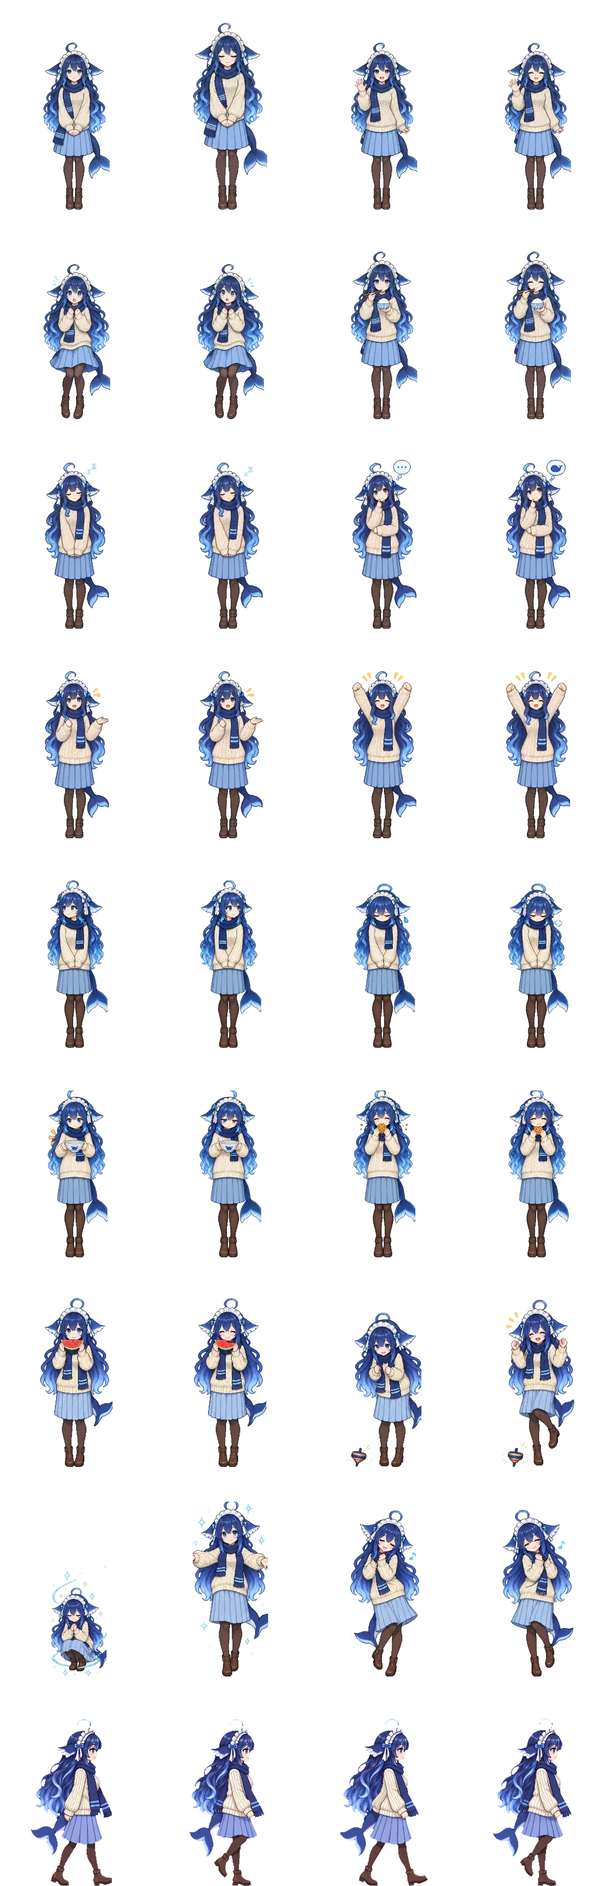
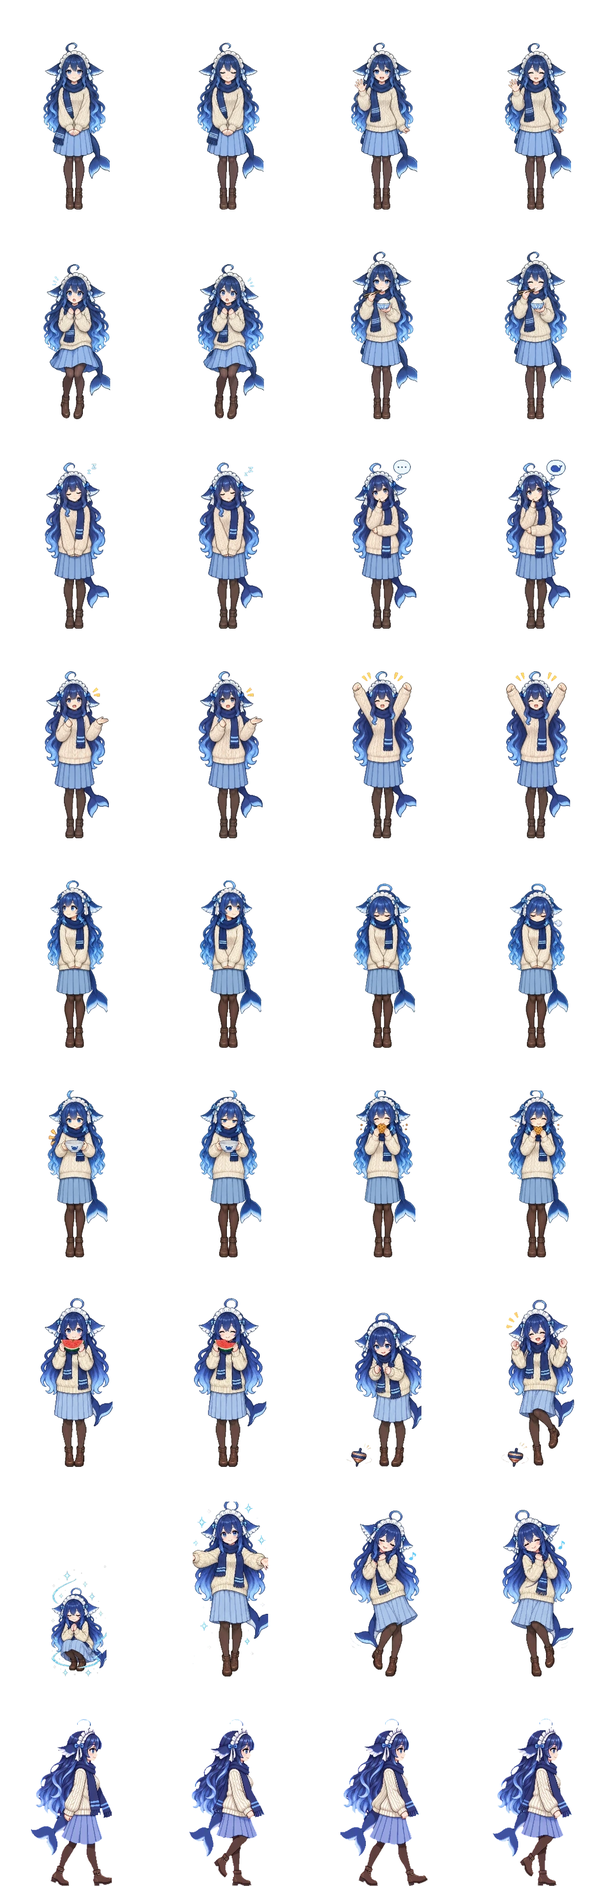
✨ feat(outfits): ten all-ages wardrobe outfits for all five characters
Full 4×9 sheets for 针织围巾套装, 休闲卫衣, 贝雷帽画家装, 偶像演出服 (new, 熟悉),
毛绒睡衣, 猫耳家居服, 浴衣, 长旗袍 (new, 知己), 情侣卫衣 and 花冠长裙 in every
default pixel pack; each character lists all thirteen all-ages outfits. The
adult designs were not drawn. Prompts pin each character's garment colours,
open with a chroma-key line (plain BG gave dark gradients) and keep skirts at
knee length or longer; the first fitted, slit qipao was redrawn as a loose
A-line dress. align_outfit.py rescales off-size cells to daily's height.

e2e: the outfit scenario handles first-stage outfits; wardrobe expects the
new unlock notices.

Changed region(s): [[0.3087, 0.0, 0.4322, 0.1249]]

diff --git a/e2e/run.js b/e2e/run.js
@@ -395,7 +395,7 @@ async function wardrobe() {
       return `${f} · float "${float}" · meta: ${await page.textContent('#meta')}`;
     });
 
-    await step(S, 'crossing 15 moves 陌生 -> 熟悉 and a notice names the unlocked topics (she has no other outfits to unlock)', async () => {
+    await step(S, 'crossing 15 moves 陌生 -> 熟悉 and a notice names the unlocked topics and the three 熟悉 outfits', async () => {
       // Test hook: 14 points (a day's cap is 12, so reaching 15 by hand takes two days); the pat that crosses is real.
       await page.evaluate(() => window.pet.debugSet({ affection: 14, mood: 50, hunger: 30, sleeping: false, dailyCounts: { greet: 1 }, lastAffectionAt: {}, affectionToday: 0 }));
       await hover(page);
@@ -407,20 +407,17 @@ async function wardrobe() {
       const toast = await page.textContent('#unlock-toast');
       assert.match(toast, /关系升级：熟悉（♥15）/);
       assert.match(toast, /解锁话题：「聊聊爱好」、「奇怪的冷知识」、「脑筋急转弯」/);
-      assert.doesNotMatch(toast, /解锁服饰/);
-      assert.equal((await page.textContent('#toast-open')).trim(), '去聊聊新话题');
-      assert.equal(await page.locator('#btn-wardrobe .new-dot').isVisible(), false);
+      assert.match(toast, /解锁服饰：「休闲卫衣」、「贝雷帽画家装」、「偶像演出服」/);
+      assert.equal((await page.textContent('#toast-open')).trim(), '去衣柜看看');
       return `${await shot('04-stage-up-unlock-notice')} · ${toast.replace(/\s+/g, ' ').trim()}`;
     });
 
-    await step(S, 'the notice leads to the topics; the wardrobe holds her signature maid outfit, in pixels, 针织围巾套装 to wear, 运动泳装 locked until 亲近 and 沙滩比基尼 until 知己', async () => {
+    await step(S, 'the notice leads to the wardrobe: her signature maid outfit, in pixels, the 陌生 and 熟悉 outfits to wear, 运动泳装 locked until 亲近 and 沙滩比基尼 until 知己', async () => {
       await page.click('#toast-open');
-      await page.waitForSelector('#panel:not(.hidden) .topic');
-      await closePanel();
-      await openWardrobe();
+      await page.waitForSelector('#panel:not(.hidden) .card[data-outfit="daily"]');
       assert.deepEqual(await page.$$eval('.card', (cs) => cs.map((c) => c.dataset.outfit)), ['daily', 'scarf', 'casual', 'beret', 'idol', 'pajamas', 'cat_ears', 'swimsuit', 'yukata', 'bikini', 'qipao', 'couple_hoodie', 'flower_crown'], 'DeepSeek: her signature outfit and the twelve all-ages outfits');
-      assert.equal(await page.locator('.card.locked').count(), 11, 'all but daily and 针织围巾套装 (陌生)');
-      assert.equal(await cardStatus('scarf'), '点击穿上');
+      assert.equal(await page.locator('.card.locked').count(), 8, 'all but daily, 针织围巾套装 (陌生) and the three 熟悉 outfits');
+      for (const id of ['scarf', 'casual', 'beret', 'idol']) assert.equal(await cardStatus(id), '点击穿上', id);
       assert.match(await cardStatus('swimsuit'), /^🔒 亲近（♥35）解锁/);
       assert.match(await cardStatus('bikini'), /^🔒 知己（♥60）解锁/);
       assert.equal(await cardStatus('daily'), '✓ 穿着中');
@@ -468,7 +465,7 @@ async function wardrobe() {
       const toast = await page.textContent('#unlock-toast');
       assert.match(toast, /关系升级：亲近（♥35）/);
       assert.match(toast, /解锁话题：「求安慰 \/ 打气」、「给彼此起昵称」、「撒娇模式」、「说说昨晚的怪梦」/);
-      assert.match(toast, /解锁服饰：「运动泳装」/);
+      assert.match(toast, /解锁服饰：「毛绒睡衣」、「猫耳家居服」、「运动泳装」/);
       const f = await shot('11-stage-up-close');
       await page.click('#toast-close');
       return `${f} · ${toast.replace(/\s+/g, ' ').trim()}`;
@@ -484,7 +481,7 @@ async function wardrobe() {
       await hover(page);
       const toast = await page.textContent('#unlock-toast');
       assert.match(toast, /关系升级：知己（♥60）/);
-      assert.equal((await page.textContent('#toast-body')).trim(), '解锁话题：「交换小秘密」、「深夜谈心」解锁服饰：「沙滩比基尼」', 'only the all-ages 沙滩比基尼, no adult outfit');
+      assert.equal((await page.textContent('#toast-body')).trim(), '解锁话题：「交换小秘密」、「深夜谈心」解锁服饰：「浴衣」、「沙滩比基尼」、「长旗袍」', 'only all-ages outfits, no adult one');
       return `${await shot('12-stage-up-flirty')} · ${toast.replace(/\s+/g, ' ').trim()}`;
     });
 
@@ -532,7 +529,7 @@ async function wardrobe() {
       const a = await shot('16-after-restart-pet');
       await openWardrobe();
       assert.equal(await cardStatus('daily'), '✓ 穿着中');
-      assert.equal(await page.locator('.card.locked').count(), 0);
+      assert.equal(await page.locator('.card.locked').count(), 2, 'only the two 挚友 outfits stay locked at 知己');
       const b = await shot('17-after-restart-wardrobe');
       await closePanel();
       await clickAct(page, 'topics');
@@ -4434,7 +4431,9 @@ async function outfitScenario() {
       return `walk frames ${daily.walk.frames.join(' ')}; ${daily.idle.shot}, ${daily.walk.shot}, ${daily.lifted.shot}, ${daily.happy.shot}`;
     }, page);
 
-    await step(S, `before ${O.stage}: the wardrobe lists ${O.label} locked with its condition`, async () => {
+    // A first-stage outfit (针织围巾套装, 陌生 ♥0) is never locked: it is offered from the start, without the 新 tag.
+    const firstStage = O.stage === 'stranger';
+    if (!firstStage) await step(S, `before ${O.stage}: the wardrobe lists ${O.label} locked with its condition`, async () => {
       await clickAct(page, 'wardrobe');
       await page.waitForSelector(`#panel:not(.hidden) .card[data-outfit="${OID}"]`);
       const st = await page.textContent(`.card[data-outfit="${OID}"] .st`);
@@ -4447,7 +4446,7 @@ async function outfitScenario() {
       return `${cards.join(' | ')} · ${f}`;
     }, page);
 
-    await step(S, `a real pat crossing into ${O.stage} unlocks ${O.label}: the notice names it`, async () => {
+    if (!firstStage) await step(S, `a real pat crossing into ${O.stage} unlocks ${O.label}: the notice names it`, async () => {
       const { getStage } = require('../src/core/affection');
       const min = getStage(O.stage).min;
       await page.evaluate((a) => window.pet.debugSet({ affection: a, mood: 50, hunger: 30, sleeping: false, dailyCounts: { greet: 1 }, lastAffectionAt: {}, affectionToday: 0 }), min - 1);
@@ -4472,13 +4471,13 @@ async function outfitScenario() {
       return `${toast} · ${f}`;
     }, page);
 
-    await step(S, `the wardrobe shows ${O.label} unlocked (新) with her art; clicking it puts it on`, async () => {
+    await step(S, `the wardrobe shows ${O.label} unlocked${firstStage ? ' from the start' : ' (新)'} with her art; clicking it puts it on`, async () => {
       await clickAct(page, 'wardrobe');
       await page.waitForSelector(`#panel:not(.hidden) .card[data-outfit="${OID}"]`);
       await page.waitForTimeout(500);
       assert.equal(await page.textContent(`.card[data-outfit="${OID}"] .st`), '点击穿上');
       assert.equal(await page.textContent(`.card[data-outfit="${OID}"] .nm`), O.label);
-      assert.equal(await page.locator(`.card[data-outfit="${OID}"] .tag.new`).count(), 1);
+      assert.equal(await page.locator(`.card[data-outfit="${OID}"] .tag.new`).count(), firstStage ? 0 : 1);
       assert.equal(await page.locator(`.card[data-outfit="${OID}"] canvas.sprite`).count(), 1);
       const before = await shot('4-wardrobe-unlocked');
       await page.click(`.card[data-outfit="${OID}"]`);

diff --git a/scripts/art/model_chan_prompts.py b/scripts/art/model_chan_prompts.py
@@ -133,7 +133,7 @@ WARDROBE = {
  "yukata": "a long {a} summer yukata reaching her ankles with a {b} flower pattern, closed neatly at the neck, a wide {b} obi sash tied in a bow at the back, and wooden geta sandals",
  "couple_hoodie": "a pink oversized hoodie with a big red heart print on the front, a knee-length pleated {a} skirt over opaque black tights and white sneakers",
  "flower_crown": "a flowing ankle-length white sundress with a modest square neckline at her collarbones and short puff sleeves, a crown of small {a} and white flowers resting on her hair, and white strappy flat sandals",
- "qipao": "an elegant loose straight-cut ankle-length {a} qipao (cheongsam) with a high mandarin collar, short cap sleeves, {b} embroidered flowers, short side slits only at the ankles, and {b} low flat shoes",
+ "qipao": "a sweet, loose A-line ankle-length {a} qipao dress (cheongsam style) that falls straight and wide from her shoulders like a loose tunic dress, hiding her figure, with a high mandarin collar, short cap sleeves, {b} embroidered flowers and {b} frog buttons, no side slits, and {b} low flat shoes; the chest is drawn as plain flat fabric with no bust shading or bust shape, the dress never clings to her body",
  "idol": "a sparkly knee-length idol stage dress in {a} and {b} with a high frilled collar, puff sleeves, layered frills, ribbons and a big {b} bow, opaque white tights, a small wrist microphone charm and shiny {b} ankle boots",
 }
 # Garment colours per character ({a} main, {b} second), from her daily palette: every sheet of an outfit is drawn

diff --git a/scripts/art/align_outfit.py b/scripts/art/align_outfit.py
@@ -1,15 +1,15 @@
 # Align an outfit sheet to the pack's daily sheet: gpt-image sometimes draws a few cells of a grid a size
 # bigger or smaller (often the crouching hatch frame), which check_model_chan.py reports as a height jump.
-# Every frame whose figure height differs from the same daily frame by more than --tol (default 10%) is
+# Every frame whose figure height differs from the same daily frame by more than --tol (default 11.5%, just inside check_model_chan.py's 12%) is
 # scaled about its feet to the daily height, staying inside its cell. Writes the sheet in place.
-# usage: align_outfit.py <pack dir> <outfit> [--tol 0.10]
+# usage: align_outfit.py <pack dir> <outfit> [--tol 0.115]
 import json, os, sys
 import numpy as np
 from PIL import Image
 
 FW, FH = 332, 452
 d, outfit = sys.argv[1], sys.argv[2]
-tol = float(sys.argv[sys.argv.index('--tol') + 1]) if '--tol' in sys.argv else 0.10
+tol = float(sys.argv[sys.argv.index('--tol') + 1]) if '--tol' in sys.argv else 0.115
 pack = json.load(open(os.path.join(d, 'pack.json')))
 daily = np.asarray(Image.open(os.path.join(d, pack['outfits']['daily'])).convert('RGBA'))[..., 3]
 path = os.path.join(d, pack['outfits'][outfit])

diff --git a/docs/characters.md b/docs/characters.md
@@ -12,11 +12,11 @@
 
 | # | 角色 | 厂商 / 模型 | id | 主题色 | 美术 | 服饰 |
 | --- | --- | --- | --- | --- | --- | --- |
-| 1 | **大肥鱼** Dafeiyu（DeepSeek 娘 · 鲸鱼女仆） | DeepSeek / DeepSeek | `dafeiyu` | `#2C4A8A` | 像素包 `dafeiyu-pixel`（默认）；可换原版 Q 版 21 段透明视频（dsh-pet） | 3 套：招牌女仆装、运动泳装、沙滩比基尼 |
-| 2 | **克洛蒂** Clody（Claude 娘 · 橘发菊纹） | Anthropic / Claude | `claude` | `#C4622D` | 像素包 `claude-pixel`（17 个动作，含 4 帧侧身步行） | 3 套：橘白哥特长裙、运动泳装、沙滩比基尼 |
-| 3 | **格萝可** Groko（Grok 娘 · 黑金吸血鬼） | xAI / Grok | `grok` | `#8E1F33` | 像素包 `grok-pixel`（17 个动作，含 4 帧侧身步行） | 3 套：黑金哥特礼服、运动泳装、沙滩比基尼 |
-| 4 | **杰米** Gemi（Gemini 娘 · 四角星猫耳） | Google / Gemini | `gemini` | `#7B5CD6` | 像素包 `gemini-pixel`（17 个动作，含 4 帧侧身步行） | 3 套：星纹宽袖外披、运动泳装、沙滩比基尼 |
-| 5 | **吉皮缇** Gippity（GPT 娘 · 白龙） | OpenAI / ChatGPT | `gpt` | `#8E7FC8` | 像素包 `gpt-pixel`（17 个动作，含 4 帧侧身步行） | 3 套：白玫瑰立领长裙、运动泳装、沙滩比基尼 |
+| 1 | **大肥鱼** Dafeiyu（DeepSeek 娘 · 鲸鱼女仆） | DeepSeek / DeepSeek | `dafeiyu` | `#2C4A8A` | 像素包 `dafeiyu-pixel`（默认）；可换原版 Q 版 21 段透明视频（dsh-pet） | 13 套：招牌女仆装 + 12 套全年龄服饰 |
+| 2 | **克洛蒂** Clody（Claude 娘 · 橘发菊纹） | Anthropic / Claude | `claude` | `#C4622D` | 像素包 `claude-pixel`（17 个动作，含 4 帧侧身步行） | 13 套：橘白哥特长裙 + 12 套全年龄服饰 |
+| 3 | **格萝可** Groko（Grok 娘 · 黑金吸血鬼） | xAI / Grok | `grok` | `#8E1F33` | 像素包 `grok-pixel`（17 个动作，含 4 帧侧身步行） | 13 套：黑金哥特礼服 + 12 套全年龄服饰 |
+| 4 | **杰米** Gemi（Gemini 娘 · 四角星猫耳） | Google / Gemini | `gemini` | `#7B5CD6` | 像素包 `gemini-pixel`（17 个动作，含 4 帧侧身步行） | 13 套：星纹宽袖外披 + 12 套全年龄服饰 |
+| 5 | **吉皮缇** Gippity（GPT 娘 · 白龙） | OpenAI / ChatGPT | `gpt` | `#8E7FC8` | 像素包 `gpt-pixel`（17 个动作，含 4 帧侧身步行） | 13 套：白玫瑰立领长裙 + 12 套全年龄服饰 |
 
 五位都是全年龄角色（`adult: false`，设定年龄 18 岁）：即使用户确认 18+ 并开启成人向内容，她们也只用全年龄的语气、话题和服饰。
 
@@ -37,7 +37,7 @@
 | 名称 / 称号 | 大肥鱼 Dafeiyu ·“DeepSeek 娘 · 鲸鱼女仆” |
 | 形象设定 | 鲸鱼娘女仆：深蓝渐变浅蓝的及腿长发、环状呆毛、蓝色大眼、带蓝色小蝴蝶结的鲸鱼鳍耳、身后分叉的鲸鱼尾鳍。懒洋洋、嘴硬、爱吃白饭，叫主人“鱼片”，口头禅“咕噜~”。像素包和其他四位一样是成人比例；社区原版的 Q 版（约 3 头身）只保留在可选的原版动画里。只有全年龄内容 |
 | 主题色 | `#2C4A8A` 深海蓝（色板 `#2C4A8A` `#FFFFFF` `#6FA8E8` `#E8D6A0`） |
-| 服饰 | 招牌女仆装：白色泡泡袖衬衫（遮肩）、蓝宝石小领结、金扣深藏青束腰、右下角绣小鲸鱼的白围裙、深藏青外层 + 蓝白竖条纹中层 + 白荷叶边的及踝长裙、白色连裤袜、深藏青玛丽珍鞋。原先的 8 套服饰立绘（针织围巾套装、休闲卫衣等）和她的形象不搭，已经移除；旧存档里穿着这些服饰的会换回招牌女仆装。运动泳装（`swimsuit`，亲近 ♥35 解锁）：高领短袖的深藏青运动款连体泳衣（蓝色侧拼、白荷叶边、蓝宝石小领结），外搭蓝白竖条纹及膝沙滩裤（白荷叶边）、右下角绣小鲸鱼的白色防晒开衫和深藏青沙滩凉鞋；保留女仆头饰、鲸鱼鳍耳、呆毛和尾鳍。原版动画只有招牌女仆装：选了「原版动画」时换上运动泳装，桌宠和衣柜改用 `dafeiyu-pixel` 的泳装像素图，换回招牌女仆装后重新播放原版动画；沙滩比基尼（`bikini`，知己 ♥60 解锁，全年龄）：白色两层荷叶边上衣（高圆领、深藏青细边、海军领小蝴蝶结）、到膝盖上方的深藏青两层荷叶边泳裙、领口系一颗扣的白色短开衫（下摆绣小鲸鱼），保留女仆头饰、鲸鱼鳍耳和尾鳍 |
+| 服饰 | 招牌女仆装：白色泡泡袖衬衫（遮肩）、蓝宝石小领结、金扣深藏青束腰、右下角绣小鲸鱼的白围裙、深藏青外层 + 蓝白竖条纹中层 + 白荷叶边的及踝长裙、白色连裤袜、深藏青玛丽珍鞋。原先的 8 套服饰立绘（针织围巾套装、休闲卫衣等）和她的形象不搭，已经移除；旧存档里穿着这些服饰的会换回招牌女仆装。运动泳装（`swimsuit`，亲近 ♥35 解锁）：高领短袖的深藏青运动款连体泳衣（蓝色侧拼、白荷叶边、蓝宝石小领结），外搭蓝白竖条纹及膝沙滩裤（白荷叶边）、右下角绣小鲸鱼的白色防晒开衫和深藏青沙滩凉鞋；保留女仆头饰、鲸鱼鳍耳、呆毛和尾鳍。原版动画只有招牌女仆装：选了「原版动画」时换上运动泳装，桌宠和衣柜改用 `dafeiyu-pixel` 的泳装像素图，换回招牌女仆装后重新播放原版动画；沙滩比基尼（`bikini`，知己 ♥60 解锁，全年龄）：白色两层荷叶边上衣（高圆领、深藏青细边、海军领小蝴蝶结）、到膝盖上方的深藏青两层荷叶边泳裙、领口系一颗扣的白色短开衫（下摆绣小鲸鱼），保留女仆头饰、鲸鱼鳍耳和尾鳍；另有 10 套全年龄日常服饰（针织围巾套装、休闲卫衣、贝雷帽画家装、偶像演出服、毛绒睡衣、猫耳家居服、浴衣、长旗袍、情侣卫衣、花冠长裙），款式五位相同，配色按她的色板（见 `art/model-chan/CHARACTERS.md`） |
 | 美术 | 21 段透明 webm（`src/renderer/assets/dafeiyu/`：15 个基础状态 + 被拎起 `lifted`、走路 `walk`，以及点击回应变体 `pat_shy`、`pat_pout`、`pat_tickle`、`happy_jump`），在外观里选「大肥鱼 · 原版动画」时播放；默认是像素包 `dafeiyu-pixel`（高清，每帧 332×452，16 个动作 × 2 帧 + 4 帧侧身步行）；「角色列表 → 大肥鱼 → 外观」里还可以选 v0.7.0 的「旧版像素」`dafeiyu-classic` |
 | 梗图 / 朗读 | 9 张梗图（dsh-pet）；朗读音调 1.35、语速 1.0 |
 | 素材来源 / 生成方式 | 动画来自 [PC2005-cloud/dsh-pet](https://github.com/PC2005-cloud/dsh-pet)；形象是 DeepSeek 吉祥物的社区二创：原型「溟月」B站 @上善无形，女仆鲸鱼娘设计 B站 @ZipZipPipe，设定参考 ai-chan-sheets `03_DeepSeek娘_鲸鱼娘`。像素版由 **GPT Image 2.5**（`gpt-image-2.5-sunburst`，经 LobeHub）按文字提示词重画，没有逐帧描摹视频 |
@@ -56,7 +56,7 @@
 | 名称 / 称号 | 克洛蒂 Clody ·“Claude 娘 · 橘发菊纹” |
 | 形象设定 | 成年比例：橘色过膝长发、发梢螺旋卷，菊花发饰配黑缎蝴蝶结，琥珀金垂眼。安静、温和、认真，爱读书和写东西，不确定时直说。口头禅“嗯，让我想想。” |
 | 主题色 | `#C4622D` 陶土橘（色板 `#C4622D` `#F4EAD8` `#1E1A18` `#C9A24A`） |
-| 服饰 | 橘白哥特长裙：奶油白高领衬衫、短披肩和橘红长裙；运动泳装（`swimsuit`，亲近 ♥35 解锁）：高领短袖的黑色运动款连体泳衣（橘红侧拼），外搭及膝橘红沙滩裤、奶油白防晒连帽开衫和沙滩凉鞋；沙滩比基尼（`bikini`，知己 ♥60 解锁，全年龄）：奶油白两层荷叶边上衣（高圆领、橘红细边、橘色小花）、到膝盖上方的橘白格纹两层荷叶边泳裙、领口系一颗扣的奶油白短开衫，保留菊花发饰 |
+| 服饰 | 橘白哥特长裙：奶油白高领衬衫、短披肩和橘红长裙；运动泳装（`swimsuit`，亲近 ♥35 解锁）：高领短袖的黑色运动款连体泳衣（橘红侧拼），外搭及膝橘红沙滩裤、奶油白防晒连帽开衫和沙滩凉鞋；沙滩比基尼（`bikini`，知己 ♥60 解锁，全年龄）：奶油白两层荷叶边上衣（高圆领、橘红细边、橘色小花）、到膝盖上方的橘白格纹两层荷叶边泳裙、领口系一颗扣的奶油白短开衫，保留菊花发饰；另有 10 套全年龄日常服饰（针织围巾套装、休闲卫衣、贝雷帽画家装、偶像演出服、毛绒睡衣、猫耳家居服、浴衣、长旗袍、情侣卫衣、花冠长裙），款式五位相同，配色按她的色板（见 `art/model-chan/CHARACTERS.md`） |
 | 美术 | 像素包 `claude-pixel`：schema 2 高清精灵图 1328×4068 WebP（每帧 332×452，平滑绘制），16 个动作 × 2 帧 + 4 帧侧身步行 |
 | 梗图 / 朗读 | 4 张梗图；朗读音调 1.0、语速 0.92 |
 | 素材来源 / 生成方式 | 身份锚点（发型、配色、服饰、标志物）取自 [lmy414/ai-chan-sheets](https://github.com/lmy414/ai-chan-sheets) `设定图/11_Claude娘_Anthropic`；原设 ZipZipPipe《AI娘化》p02（[Pixiv 148186519](https://www.pixiv.net/artworks/148186519)，用户素材 [file_5SAeAA60gpeZ](https://app.lobehub.com/f/file_5SAeAA60gpeZ)）。精灵图由 **GPT Image 2.5**（`gpt-image-2.5-sunburst`）按文字提示词生成，`scripts/art/` 像素化 |
@@ -75,7 +75,7 @@
 | 名称 / 称号 | 格萝可 Groko ·“Grok 娘 · 黑金吸血鬼” |
 | 形象设定 | 成年比例：香槟金超长双马尾、黑金小尖冠、蓝宝石眼、精灵尖耳和小尖牙。机灵爱吐槽的友善夜行吸血鬼，嘴上不饶人但心软。口头禅“哈！有意思。” |
 | 主题色 | `#8E1F33` 酒红（色板 `#8E1F33` `#16141A` `#C9A24A` `#F1E2B8`） |
-| 服饰 | 黑金哥特礼服：高领黑色礼服、酒红内衬立领、小尖冠、不透明黑色连裤袜；运动泳装（`swimsuit`，亲近 ♥35 解锁）：酒红内衬尖立领、短袖的黑色运动款连体泳衣（酒红侧拼、金边），外搭酒红侧条的黑色及膝沙滩裤、白蕾丝袖口的黑色防晒连帽开衫和金扣黑色沙滩凉鞋；沙滩比基尼（`bikini`，知己 ♥60 解锁，全年龄）：黑色两层荷叶边上衣（高圆领、白蕾丝边、酒红蝴蝶结）、到膝盖上方的黑色三层荷叶边泳裙（酒红衬里）、酒红内衬尖立领的黑色短波蕾罗，保留小尖冠和双马尾 |
+| 服饰 | 黑金哥特礼服：高领黑色礼服、酒红内衬立领、小尖冠、不透明黑色连裤袜；运动泳装（`swimsuit`，亲近 ♥35 解锁）：酒红内衬尖立领、短袖的黑色运动款连体泳衣（酒红侧拼、金边），外搭酒红侧条的黑色及膝沙滩裤、白蕾丝袖口的黑色防晒连帽开衫和金扣黑色沙滩凉鞋；沙滩比基尼（`bikini`，知己 ♥60 解锁，全年龄）：黑色两层荷叶边上衣（高圆领、白蕾丝边、酒红蝴蝶结）、到膝盖上方的黑色三层荷叶边泳裙（酒红衬里）、酒红内衬尖立领的黑色短波蕾罗，保留小尖冠和双马尾；另有 10 套全年龄日常服饰（针织围巾套装、休闲卫衣、贝雷帽画家装、偶像演出服、毛绒睡衣、猫耳家居服、浴衣、长旗袍、情侣卫衣、花冠长裙），款式五位相同，配色按她的色板（见 `art/model-chan/CHARACTERS.md`） |
 | 美术 | 像素包 `grok-pixel`：高清精灵图 1328×4068 WebP（每帧 332×452，平滑绘制），16 个动作 × 2 帧 + 4 帧侧身步行 |
 | 梗图 / 朗读 | 4 张梗图；朗读音调 1.15、语速 1.12 |
 | 素材来源 / 生成方式 | 设定取自 ai-chan-sheets `设定图/09_Grok娘_xAI`，原设 ZipZipPipe《AI娘化》p07。把原设的露肩礼服、透肉连裤袜和腿环改成高领礼服和不透明连裤袜，不画 X 战斧和 X 字样。**GPT Image 2.5** 生成后像素化 |
@@ -94,7 +94,7 @@
 | 名称 / 称号 | 杰米 Gemi ·“Gemini 娘 · 四角星猫耳” |
 | 形象设定 | 成年比例：薰衣草紫过膝长发、卷曲呆毛，紫外粉内的猫耳和蓬松猫尾，异色瞳（品红 / 金），深色发带配四角星发饰。活泼好奇、反应快。口头禅“让我看看！” |
 | 主题色 | `#7B5CD6` 薰衣草紫（色板 `#7B5CD6` `#B9A3F0` `#1E1F4B` `#FFFFFF`） |
-| 服饰 | 星纹宽袖外披：深藏青高领上衣、白底宽袖外披、四角星吊坠飘带和白色荷叶边长裙；运动泳装（`swimsuit`，亲近 ♥35 解锁）：高领短袖的深藏青运动款连体泳衣（紫色侧拼、胸前白色四角星），外搭金边紫色及膝沙滩裤、白底藏青的防晒开衫（两条带星星挂饰的短飘带）和深紫沙滩凉鞋；保留猫耳和猫尾；沙滩比基尼（`bikini`，知己 ♥60 解锁，全年龄）：淡紫两层荷叶边上衣（高圆领、白色小星星、深藏青大蝴蝶结）、到膝盖上方的深藏青星星两层荷叶边泳裙、带猫耳兜帽的白色短开衫，保留猫耳和猫尾 |
+| 服饰 | 星纹宽袖外披：深藏青高领上衣、白底宽袖外披、四角星吊坠飘带和白色荷叶边长裙；运动泳装（`swimsuit`，亲近 ♥35 解锁）：高领短袖的深藏青运动款连体泳衣（紫色侧拼、胸前白色四角星），外搭金边紫色及膝沙滩裤、白底藏青的防晒开衫（两条带星星挂饰的短飘带）和深紫沙滩凉鞋；保留猫耳和猫尾；沙滩比基尼（`bikini`，知己 ♥60 解锁，全年龄）：淡紫两层荷叶边上衣（高圆领、白色小星星、深藏青大蝴蝶结）、到膝盖上方的深藏青星星两层荷叶边泳裙、带猫耳兜帽的白色短开衫，保留猫耳和猫尾；另有 10 套全年龄日常服饰（针织围巾套装、休闲卫衣、贝雷帽画家装、偶像演出服、毛绒睡衣、猫耳家居服、浴衣、长旗袍、情侣卫衣、花冠长裙），款式五位相同，配色按她的色板（见 `art/model-chan/CHARACTERS.md`） |
 | 美术 | 像素包 `gemini-pixel`：高清精灵图 1328×4068 WebP（每帧 332×452，平滑绘制），16 个动作 × 2 帧 + 4 帧侧身步行 |
 | 梗图 / 朗读 | 4 张梗图；朗读音调 1.25、语速 1.08 |
 | 素材来源 / 生成方式 | 设定取自 ai-chan-sheets `设定图/10_Gemini娘`，原设 ZipZipPipe《AI娘化》p04。把原设的露脐上衣、短裤和腿环改成高领上衣、及踝长裙和不透明白色连裤袜；四角星只作纹样，不画 Google 标志或文字。**GPT Image 2.5** 生成后像素化（`fit_cells.py --keep-violet` 保住紫色发色） |
@@ -113,7 +113,7 @@
 | 名称 / 称号 | 吉皮缇 Gippity（取自网友对 ChatGPT 的昵称 “ChatGippity”）·“GPT 娘 · 白龙” |
 | 形象设定 | 成年比例：纯白及踝超长波浪发、白色环纹龙角、精灵尖耳配淡紫水晶耳坠、淡紫垂眼，白玫瑰绳结发饰；收拢的淡紫小龙翼和白色龙尾。温柔耐心、有问必答，爱把事情列成要点，会拿“重新生成”和“知识截止日期”自嘲。口头禅“好的！很乐意帮忙～” |
 | 主题色 | `#8E7FC8` 淡薰衣草（色板 `#8E7FC8` `#FFFFFF` `#D9D2EE` `#B8BCC6`） |
-| 服饰 | 白玫瑰立领长裙：白色中式立领长袖长裙、宽大荷叶边水袖、银链淡紫水晶腰饰、白玫瑰绳结和不透明的波浪荷叶边长罩衣；运动泳装（`swimsuit`，亲近 ♥35 解锁）：白色小立领、短袖盖肩的淡紫色厚料运动款连体泳衣（白色侧拼、银边、领口淡紫水晶），外搭淡紫波纹的白色及膝沙滩裤、波浪荷叶袖口的白色防晒连帽开衫（胸前白玫瑰绳结）和淡紫带白色沙滩凉鞋；保留龙角、龙翼和龙尾；沙滩比基尼（`bikini`，知己 ♥60 解锁，全年龄）：白色两层荷叶边上衣（高圆领、淡紫细边、白玫瑰绳结）、到膝盖上方的淡紫两层荷叶边泳裙（裙摆绣白玫瑰）、领口系一颗扣的白色短开衫，保留龙角、小龙翼和龙尾 |
+| 服饰 | 白玫瑰立领长裙：白色中式立领长袖长裙、宽大荷叶边水袖、银链淡紫水晶腰饰、白玫瑰绳结和不透明的波浪荷叶边长罩衣；运动泳装（`swimsuit`，亲近 ♥35 解锁）：白色小立领、短袖盖肩的淡紫色厚料运动款连体泳衣（白色侧拼、银边、领口淡紫水晶），外搭淡紫波纹的白色及膝沙滩裤、波浪荷叶袖口的白色防晒连帽开衫（胸前白玫瑰绳结）和淡紫带白色沙滩凉鞋；保留龙角、龙翼和龙尾；沙滩比基尼（`bikini`，知己 ♥60 解锁，全年龄）：白色两层荷叶边上衣（高圆领、淡紫细边、白玫瑰绳结）、到膝盖上方的淡紫两层荷叶边泳裙（裙摆绣白玫瑰）、领口系一颗扣的白色短开衫，保留龙角、小龙翼和龙尾；另有 10 套全年龄日常服饰（针织围巾套装、休闲卫衣、贝雷帽画家装、偶像演出服、毛绒睡衣、猫耳家居服、浴衣、长旗袍、情侣卫衣、花冠长裙），款式五位相同，配色按她的色板（见 `art/model-chan/CHARACTERS.md`） |
 | 美术 | 像素包 `gpt-pixel`：高清精灵图 1328×4068 WebP（每帧 332×452，平滑绘制），16 个动作 × 2 帧 + 4 帧侧身步行 |
 | 梗图 / 朗读 | 4 张梗图（很乐意帮忙！、以下是要点、让我重新生成、知识截止到……）；朗读音调 1.1、语速 1.0 |
 | 素材来源 / 生成方式 | 设定取自 ai-chan-sheets `设定图/02_GPT娘_白龙娘`，原设 ZipZipPipe《AI娘化》p03。把原设的露肩、高开衩、腿环和半透明薄纱罩衣改成长袖、闭合的及踝长裙和不透明长罩衣，龙翼画小并收拢；白玫瑰绳结只作饰物，不画 OpenAI 标志或文字。**GPT Image 2.5** 生成后像素化（`slice_sheet.py --octree` 保住白色角色的配色） |

diff --git a/README.md b/README.md
@@ -7,7 +7,7 @@
 - **好感度反馈**：悬停时显示 💗 好感条、数值（♥42/100）、阶段名和“距「下一阶段」还差 N”；每次加分在宠物头顶飘出 `+N ♥`，冷却或当日上限时会说明原因。
 - **升级提示**：跨过阈值时弹出“🎉 关系升级”，逐一列出本次解锁的话题和服饰。
 - **话题面板**：按阶段分组，锁定话题显示 🔒 和解锁条件；点已解锁话题，agent 按该话题和当前阶段的语气回应。
-- **衣柜**：每位角色只列出她有美术的服饰（五位角色都有各自的原设服装，大肥鱼是招牌女仆装；五位还各有一套亲近 ♥35 解锁的全年龄运动泳装 `swimsuit` 和一套暧昧（知己）♥60 解锁的全年龄沙滩比基尼 `bikini`）；衣柜里看到的就是她换上后桌面上的样子，锁定项显示 🔒 和解锁条件，换装立即生效。
+- **衣柜**：每位角色只列出她有美术的服饰（五位角色都有各自的原设服装，大肥鱼是招牌女仆装；五位还各有同样的 12 套全年龄服饰，按好感阶段解锁：针织围巾套装、休闲卫衣、贝雷帽画家装、偶像演出服、毛绒睡衣、猫耳家居服、运动泳装、浴衣、沙滩比基尼、长旗袍、情侣卫衣、花冠长裙，配色按各自的色板）；衣柜里看到的就是她换上后桌面上的样子，锁定项显示 🔒 和解锁条件，换装立即生效。
 - **放在哪里由你选**：唤醒时会问把 agent 建在哪里，默认是**个人空间**；也可以选你加入的某个 workspace（那里的成员可能看得到它）。之后所有调用都固定在这个空间。
 - **状态保持**：好感度、阶段、已解锁内容和当前服饰保存在本机 `pet.json`，退出重启后不变；18+ 回答和成人向开关保存在 `settings.json`。
 
@@ -18,11 +18,11 @@
 
 | 角色 | 厂商 | 主题色 | 美术 | 服饰 |
 |---|---|---|---|---|
-| 大肥鱼（DeepSeek 娘 · 鲸鱼女仆） | DeepSeek | `#2C4A8A` | 像素包 `dafeiyu-pixel`（默认，和其他角色同一画风和比例）；可在“外观”里换成原版 Q 版 21 段透明视频（dsh-pet，含拖拽、走路和 5 种点击回应） | 招牌女仆装、运动泳装（亲近 ♥35）、沙滩比基尼（暧昧 ♥60）；原版动画下两套泳装都用像素图 |
-| 克洛蒂（Claude 娘 · 橘发菊纹） | Anthropic | `#C4622D` | 像素包 `claude-pixel`（16 个动作） | 橘白哥特长裙、运动泳装（亲近 ♥35）、沙滩比基尼（暧昧 ♥60） |
-| 格萝可（Grok 娘 · 黑金吸血鬼） | xAI | `#8E1F33` | 像素包 `grok-pixel`（16 个动作） | 黑金哥特礼服、运动泳装（亲近 ♥35）、沙滩比基尼（暧昧 ♥60） |
-| 杰米（Gemini 娘 · 四角星猫耳） | Google | `#7B5CD6` | 像素包 `gemini-pixel`（16 个动作） | 星纹宽袖外披、运动泳装（亲近 ♥35）、沙滩比基尼（暧昧 ♥60） |
-| 吉皮缇（GPT 娘 · 白龙） | OpenAI | `#8E7FC8` | 像素包 `gpt-pixel`（16 个动作） | 白玫瑰立领长裙、运动泳装（亲近 ♥35）、沙滩比基尼（暧昧 ♥60） |
+| 大肥鱼（DeepSeek 娘 · 鲸鱼女仆） | DeepSeek | `#2C4A8A` | 像素包 `dafeiyu-pixel`（默认，和其他角色同一画风和比例）；可在“外观”里换成原版 Q 版 21 段透明视频（dsh-pet，含拖拽、走路和 5 种点击回应） | 招牌女仆装 + 12 套全年龄服饰；原版动画下其他服饰都用像素图 |
+| 克洛蒂（Claude 娘 · 橘发菊纹） | Anthropic | `#C4622D` | 像素包 `claude-pixel`（16 个动作） | 橘白哥特长裙 + 12 套全年龄服饰 |
+| 格萝可（Grok 娘 · 黑金吸血鬼） | xAI | `#8E1F33` | 像素包 `grok-pixel`（16 个动作） | 黑金哥特礼服 + 12 套全年龄服饰 |
+| 杰米（Gemini 娘 · 四角星猫耳） | Google | `#7B5CD6` | 像素包 `gemini-pixel`（16 个动作） | 星纹宽袖外披 + 12 套全年龄服饰 |
+| 吉皮缇（GPT 娘 · 白龙） | OpenAI | `#8E7FC8` | 像素包 `gpt-pixel`（16 个动作） | 白玫瑰立领长裙 + 12 套全年龄服饰 |
 
 - 每个角色是一份数据文件 `src/characters/<id>.json`（厂商、人设、口头禅、离线台词、主题色、可用服饰、署名），美术是一个角色包（`src/renderer/packs/<id>-pixel`）或一组视频；**效果全部共用**，角色之间只差配置、素材和台词。新增角色：放一份 character.json 和一个角色包即可，不用改代码。设定与素材来源见 [art/model-chan/](art/model-chan/README.md)。
 - 五位都是全年龄角色（`adult: false`）：即使确认 18+ 并开启成人向内容，她们也只用全年龄的语气、话题和服饰。成人向机制仍保留，只对 character.json 里写明 `adult: true` 的角色生效。
@@ -84,12 +84,12 @@
 | 阶段 | 解锁话题（全年龄） | 解锁话题（成人向） | 解锁服饰（全年龄） | 解锁服饰（成人向） |
 |---|---|---|---|---|
 | 陌生 ♥0 | 自我介绍、今天天气怎么样 | — | 日常服、针织围巾套装 | — |
-| 熟悉 ♥15 | 聊聊爱好、奇怪的冷知识、脑筋急转弯 | — | 休闲卫衣、贝雷帽画家装 | — |
+| 熟悉 ♥15 | 聊聊爱好、奇怪的冷知识、脑筋急转弯 | — | 休闲卫衣、贝雷帽画家装、偶像演出服 | — |
 | 亲近 ♥35 | 求安慰 / 打气、给彼此起昵称、撒娇模式、说说昨晚的怪梦 | — | 毛绒睡衣、猫耳家居服、运动泳装 | — |
-| 暧昧（知己）♥60 | 交换小秘密、深夜谈心 | 调戏一下、吃醋模式、假装约会 | 浴衣、沙滩比基尼 | 女仆装（长袖及膝）、露肩晚礼服（及地） |
+| 暧昧（知己）♥60 | 交换小秘密、深夜谈心 | 调戏一下、吃醋模式、假装约会 | 浴衣、沙滩比基尼、长旗袍 | 女仆装（长袖及膝）、露肩晚礼服（及地） |
 | 恋人（挚友）♥85 | 约定、回忆我们 | 土味情话、睡前悄悄话、奇奇怪怪的告白 | 情侣卫衣、花冠长裙 | 复古连体泳装（保守款）、丝绸睡袍（及膝、系好腰带） |
 
-合计 19 个话题（13 全年龄 + 6 成人向）、15 套服饰（11 全年龄 + 4 成人向；每位角色只显示她有美术的服饰：五位都有原设服装、运动泳装和沙滩比基尼，其余服饰不显示。沙滩比基尼 `bikini` 也是全年龄：两层荷叶边上衣从锁骨下方盖住整个胸口，到大腿中部的荷叶边泳裙，外搭短开衫，只露出一窄条腰、手臂和小腿。运动泳装 `swimsuit` 是全年龄的高领短袖运动款连体泳衣 + 及膝沙滩裤 + 防晒开衫，和成人向的复古连体泳装 `retro_swimsuit` 是两套不同的服饰）。每个阶段除话题外还有对应的离线台词（问候、被喂、被摸、玩耍、无聊、升级）。成人向关闭时，成人向话题、服饰和台词**完全隐藏**（不显示为锁定），身上的成人向服饰会自动换回最近穿过的全年龄服饰；重新开启后按已达到的阶段恢复，不需要重新攒好感。角色像素图由 gpt-image-2.5 通过 LobeHub 生成（来源、许可和重新生成方法见 [NOTICE.md](NOTICE.md)）。
+合计 19 个话题（13 全年龄 + 6 成人向）、17 套服饰（13 全年龄 + 4 成人向；每位角色只显示她有美术的服饰：五位都有全部 13 套全年龄服饰，没有成人向服饰的图，所以成人向服饰不显示。沙滩比基尼 `bikini` 也是全年龄：高圆领两层荷叶边上衣盖住整个胸口，到膝盖上方的荷叶边泳裙，外搭短开衫，只露出一窄条腰、手臂和小腿。运动泳装 `swimsuit` 是全年龄的高领短袖运动款连体泳衣 + 及膝沙滩裤 + 防晒开衫，和成人向的复古连体泳装 `retro_swimsuit` 是两套不同的服饰）。每个阶段除话题外还有对应的离线台词（问候、被喂、被摸、玩耍、无聊、升级）。成人向关闭时，成人向话题、服饰和台词**完全隐藏**（不显示为锁定），身上的成人向服饰会自动换回最近穿过的全年龄服饰；重新开启后按已达到的阶段恢复，不需要重新攒好感。角色像素图由 gpt-image-2.5 通过 LobeHub 生成（来源、许可和重新生成方法见 [NOTICE.md](NOTICE.md)）。
 
 ## 触摸系统
 

diff --git a/docs/usage.md b/docs/usage.md
@@ -110,7 +110,7 @@ Linux 上 `npm run demo` 自动带 `--no-sandbox`（原因见上）；`npm start
 | E10 | 饿了 / 难过 / 开心 | `hungry`、`sad`、`happy` | 随饥饿、心情自动变化（久不喂食会饿，冷落会难过） | 无，始终可用 |
 | E11 | 工作状态：思考中 → 说话，出错时难过；每条消息带时间背景 | `think`、`talk`、`sad` | 悬停 → **聊天** 发一句话，或点 **话题**：等回复时“思考中”，回复到达时说话；agent 出错时难过。工作中悬停只显示 **■ 停止**，按 Esc 也能中断 | 无，始终可用 |
 | E12 | 关系升级演出：进化、闪光、爱心 | `evolve` | 好感度跨过阶段（15 / 35 / 60 / 85）；角色列表 → 当前角色 → **一键解锁** 直接加满 | 无，始终可用 |
-| E13 | 角色专属衣柜 | — | 悬停 → **衣柜**（每位角色 1 套原设服装 + 亲近 ♥35 解锁的运动泳装 + 暧昧（知己）♥60 解锁的沙滩比基尼） | 无，始终可用 |
+| E13 | 角色专属衣柜 | — | 悬停 → **衣柜**（每位角色 1 套原设服装 + 12 套按好感阶段解锁的全年龄服饰） | 无，始终可用 |
 | E14 | 切换角色（每位角色各自的 agent、聊天记录、名字和好感度） | `hatch` | 见第四节 | 无，始终可用 |
 | E15 | 自己走动（漫游） | `walk` | 鼠标离开、她不忙、没开面板时偶尔朝面向的方向走 60–240 像素，到屏幕边掉头。大肥鱼播 dsh-pet 的螃蟹走路，像素角色用待机帧颠步 + 👣。开关：桌宠行为 →“自己走动” | 桌宠行为 →“自己走动”（默认开） |
 | E16 | 触屏长按 / 右键打开菜单 | — | 触屏上按住她 0.5 秒不动；或鼠标右键她 | 无，始终可用 |
@@ -227,7 +227,7 @@ npm run dist:win       # Windows x64 安装包 + zip
      "catchphrase": "……", "likes": "……",
      "fallback": { "hungry": ["…"], "bored": ["…"], "happy": ["…"], "sleepy": ["…"], "greet": ["…"], "fed": ["…"], "patted": ["…"], "played": ["…"] }, // fed / patted / played 可省略：喂食 / 摸摸 / 玩耍时她自己的台词
      "adult": false,
-     "outfits": ["daily"],           // 只列有美术的服饰，必须含 daily；内置五位是 ["daily", "swimsuit", "bikini"]，加服饰的方法见 art/model-chan/README.md「其他服饰」
+     "outfits": ["daily"],           // 只列有美术的服饰，必须含 daily；内置五位列出全部 13 套全年龄服饰，加服饰的方法见 art/model-chan/README.md「其他服饰」
      "signature": { "label": "…", "desc": "…" },
      "art": { "kind": "pack", "packs": ["kimi-pixel"], "fallbackPack": "kimi-pixel" },
      "fx": { "noMirror": [] },       // 画了文字、镜像会反字的状态列在这里
@@ -255,7 +255,7 @@ npm run dist:win       # Windows x64 安装包 + zip
    - `test/packs.test.js`：内置角色包 id 列表（加 `kimi-pixel`）和逐角色检查的 id 列表；
    - `e2e/run.js` 的 `ROSTER`：加一行 `{ id: 'kimi', idx: 5, zh: '琪米', vendor: 'Moonshot' }`（`idx` 是角色卡的位置，从 0 开始），`SPECIES_MEMES` 加她的一张梗图 id；
    - `test/dsh-effects.test.js`：逐角色梗图检查的 id 列表；
-   - `test/outfits.test.js`：逐角色衣柜检查的 id 列表和招牌服饰名（内置五位的衣柜都是 daily + swimsuit + bikini；新角色没有泳装图时不要在 `outfits` 里列 `swimsuit`）；
+   - `test/outfits.test.js`：逐角色衣柜检查的 id 列表和招牌服饰名（内置五位的衣柜都是 13 套全年龄服饰；新角色没有某套服饰的图时不要在 `outfits` 里列它）；
    - `e2e/run.js` 里角色卡数量（`.char-card` 的 `count()`，三处）、厂商列表（`vendors`）、`art` 总表的像素包列表，以及导入非法角色包时报错信息里的角色 id 列表；
    - `docs/pet-packs.md` 的 `species` 注释；
    - `art/model-chan/characters.json`（设计记录，预览拼图从这里读角色）、`art/model-chan/CHARACTERS.md`、`art/model-chan/README.md`、`README.md`、`NOTICE.md` 和 `docs/compliance-review.md` 的角色表。

diff --git a/docs/affection-design.md b/docs/affection-design.md
@@ -213,15 +213,17 @@
 
 服饰数据在 `src/core/outfits.js`（`OUTFITS`）。每套服饰的样子由角色包提供（v0.5.0 起，`src/core/packs.js`，格式见 docs/pet-packs.md）：立绘包每套服饰一张图，像素包每套服饰一张 8 个动作的精灵图。桌面上的宠物和衣柜用同一份图，所以换装后桌面上的角色会真的换上那套衣服。立绘包用 CSS 动作和表情符号表现状态，像素包播放对应动作。所有图都是成年女性形象。大肥鱼穿“招牌女仆装”（默认服饰）时播放原版动画，换上其他全年龄服饰时显示对应的图；它不开放成人向服饰。
 
+2026-10-31 起五位内置角色都有全部 13 套全年龄服饰的图。
+
 | 阶段 | 服饰（id · 名称 · 分级） |
 | --- | --- |
 | 陌生 | `daily` 日常服 · 全（默认）；`scarf` 针织围巾套装 · 全 |
-| 熟悉 | `casual` 休闲卫衣 · 全；`beret` 贝雷帽画家装 · 全 |
+| 熟悉 | `casual` 休闲卫衣 · 全；`beret` 贝雷帽画家装 · 全；`idol` 偶像演出服 · 全（2026-10-31 新增） |
 | 亲近 | `pajamas` 毛绒睡衣 · 全；`cat_ears` 猫耳家居服 · 全；`swimsuit` 运动泳装 · 全（2026-10-31 新增，五位内置角色都有图） |
-| 暧昧 | 成人向：`maid` 女仆装 · adult；`offshoulder_gown` 露肩晚礼服 · adult。全年龄：`yukata` 浴衣 · 全；`bikini` 沙滩比基尼 · 全（2026-10-31 新增，五位内置角色都有图） |
+| 暧昧 | 成人向：`maid` 女仆装 · adult；`offshoulder_gown` 露肩晚礼服 · adult。全年龄：`yukata` 浴衣 · 全；`bikini` 沙滩比基尼 · 全（2026-10-31 新增）；`qipao` 长旗袍 · 全（2026-10-31 新增，宽松 A 字、立领、不开衩） |
 | 恋人 | 成人向：`retro_swimsuit` 复古连体泳装 · adult；`silk_robe` 丝绸睡袍 · adult。全年龄：`couple_hoodie` 情侣卫衣 · 全；`flower_crown` 花冠长裙 · 全 |
 
-内置服饰都不出现裸露或内衣化，“擦边”只体现在款式上（长款女仆裙、露肩礼服、保守款连体泳装、及膝睡袍）。全年龄的 `swimsuit` 是另一套服饰：高领短袖运动款连体泳衣，外搭及膝沙滩裤和防晒开衫，不属于“擦边”。全年龄的 `bikini` 沙滩比基尼也一样：两层荷叶边上衣盖住整个胸口，到大腿中部的荷叶边泳裙，外搭短开衫，清新可爱，不是“擦边”款。角色包的图片按画风区分（2026-10-31 调整）：Q 版角色任何服饰都不得裸露或露骨；其他成人比例的角色可以在成人向服饰的图里出现裸露和露骨内容，全年龄服饰仍然不得出现，详见 `docs/pet-packs.md` 的内容要求。
+内置服饰都不出现裸露或内衣化，“擦边”只体现在款式上（长款女仆裙、露肩礼服、保守款连体泳装、及膝睡袍）。全年龄的 `swimsuit` 是另一套服饰：高领短袖运动款连体泳衣，外搭及膝沙滩裤和防晒开衫，不属于“擦边”。全年龄的 `bikini` 沙滩比基尼也一样：两层荷叶边上衣盖住整个胸口，到膝盖上方的荷叶边泳裙，外搭短开衫，清新可爱，不是“擦边”款。角色包的图片按画风区分（2026-10-31 调整）：Q 版角色任何服饰都不得裸露或露骨；其他成人比例的角色可以在成人向服饰的图里出现裸露和露骨内容，全年龄服饰仍然不得出现，详见 `docs/pet-packs.md` 的内容要求。
 
 - 解锁按 `peakStage`，与话题一致；未解锁的服饰在衣柜里显示为灰色 + 🔒 + 条件，点击会被拒绝并提示条件（主进程同样校验）。
 - 当前服饰存为 `pet.equippedOutfit`；最近穿过的全年龄服饰存为 `pet.lastSafeOutfit`。启动、回答年龄确认、切换成人向开关时，如果当前服饰已不可见，就换回 `lastSafeOutfit`（再不行换回 `daily`）并保存。

diff --git a/art/model-chan/CHARACTERS.md b/art/model-chan/CHARACTERS.md
@@ -79,6 +79,7 @@
 - **必需动画状态**：DeepSeek（大肥鱼）现有 15 个视频状态 `idle, look, happy, pat, sad, hungry, sleep, eat_rice, eat_cookie, eat_fruit, think, talk, play, hatch, evolve`，加上 `lifted`（被拎起），共 16 个，即共享效果层 `src/core/fx.js` 的 `STATES`。五个像素包每个状态都有自己的动作（`test/packs.test.js` 校验）。
 - **排布**：第 0–3 行 `idle, pat, lifted, eat_rice, sleep, think, talk, happy`，第 4–7 行 `look, sad, hungry, eat_cookie, eat_fruit, play, hatch, evolve`，每行两个动作、各 2 帧。
 - **预览拼图**：`art/model-chan/preview/model-chan-preview.png`（5764×1568）：第一行是大肥鱼原视频参考帧，下面五行是五个像素包，每列一个状态、每格该状态的 2 帧（放大 2 倍）。
+- **全年龄衣柜**（2026-10-31，T-1261）：另有 10 套款式五位相同的全年龄服饰：针织围巾套装 `scarf`、休闲卫衣 `casual`、贝雷帽画家装 `beret`、偶像演出服 `idol`、毛绒睡衣 `pajamas`、猫耳家居服 `cat_ears`（杰米本来就有猫耳，改成猫耳兜帽）、浴衣 `yukata`、长旗袍 `qipao`（宽松 A 字、立领、不开衩）、情侣卫衣 `couple_hoodie`、花冠长裙 `flower_crown`。描述在 `model_chan_prompts.py` 的 `WARDROBE`，每位的主色 / 副色在 `WARDROBE_COLOURS`（大肥鱼深藏青 / 浅蓝，克洛蒂橘色 / 奶油白，格萝可黑 / 酒红，杰米淡紫 / 深藏青，吉皮缇淡紫 / 白）。裙子都到膝盖或更长，不戴帽子（贝雷帽和花冠除外，都很小）。预览：`preview/wardrobe-preview.png`（每位每套一张待机 + 一张走路）。
 - **服饰**（2026-10-31 更新）：每个角色有三套服饰，`daily`（上面各角色的「外观要点」）、全年龄的 `swimsuit` 运动泳装（亲近 ♥35 解锁）和全年龄的 `bikini` 沙滩比基尼（暧昧 / 知己 ♥60 解锁）。三套服饰在 `src/characters/<id>.json` 的 `outfits` 里登记，图集分别是默认包里的 `sheets/daily.webp`、`sheets/swimsuit.webp` 和 `sheets/bikini.webp`，排布相同（4×9，每帧 332×452，第 9 行是侧身 walk）。运动泳装统一为高领、短袖、遮住腰腹和背部的运动款连体泳衣，外面穿及膝沙滩裤和拉开的长袖防晒开衫，不戴帽子，配色沿用各角色的色板。沙滩比基尼五位是同一种清纯款式：两层宽松荷叶边上衣，高圆领贴着锁骨，胸口画成平整的荷叶边；到膝盖上方的荷叶边泳裙；领口系一颗扣的短开衫；只露出一窄条腰、小臂和小腿。提示词在 `OUTFIT_LOOKS["bikini"]` 和 `OUTFIT_SAFE["bikini"]`。运动泳装与成人向的 `retro_swimsuit` 不是同一套服饰，内置角色都没有 `retro_swimsuit` 的图。提示词在 `scripts/art/model_chan_prompts.py` 的 `OUTFIT_LOOKS["swimsuit"]` 中，出图命令见 `art/model-chan/README.md` 的「其他服饰」一节。
 
 | 角色 | 运动泳装 `swimsuit` | 沙滩比基尼 `bikini` |

diff --git a/docs/pet-packs.md b/docs/pet-packs.md
@@ -42,9 +42,9 @@ my-grok/
 }
 ```
 
-- **服饰 id**：`daily`、`scarf`、`casual`、`beret`、`pajamas`、`cat_ears`、`swimsuit`、`yukata`、`bikini`、`maid`、`offshoulder_gown`、`couple_hoodie`、`flower_crown`、`retro_swimsuit`、`silk_robe`。角色只会穿她的 character.json 里 `outfits` 列出的服饰；包里缺的服饰先用这个角色的默认角色包，再用她的回落包（`art.fallbackPack`）。
+- **服饰 id**：`daily`、`scarf`、`casual`、`beret`、`idol`、`pajamas`、`cat_ears`、`swimsuit`、`yukata`、`bikini`、`qipao`、`maid`、`offshoulder_gown`、`couple_hoodie`、`flower_crown`、`retro_swimsuit`、`silk_robe`。角色只会穿她的 character.json 里 `outfits` 列出的服饰；包里缺的服饰先用这个角色的默认角色包，再用她的回落包（`art.fallbackPack`）。
 - **`swimsuit` 与 `retro_swimsuit` 的区别**：`swimsuit`（运动泳装，亲近 ♥35，**全年龄**）是高领短袖的运动款连体泳衣，外面穿及膝沙滩裤和长袖防晒开衫，胸口、腰腹和臀部都遮住；五位内置角色的默认包都带这张图（`sheets/swimsuit.webp`）。`retro_swimsuit`（复古连体泳装，恋人 ♥85，**成人向**）只在确认 18+ 并打开成人向内容后对 `adult: true` 的角色显示，内置角色都不提供它的图。导入包给 `swimsuit` 提供的图也要符合同样的全年龄标准（不是比基尼、不露腰、不高开衩）。
-- **`bikini`**（沙滩比基尼，暧昧 ♥60，**全年龄**）：比运动泳装清凉，但仍是全年龄标准：上衣从锁骨下方盖住整个胸口、不显胸型和乳沟，泳裙到大腿中部、盖住臀部，外搭盖住肩膀的短开衫；只露出一窄条腰、手臂和小腿，布料不透明，没有内衣感和性暗示的姿势。五位内置角色的默认包都带这张图（`sheets/bikini.webp`）。导入包给 `bikini` 提供的图也要符合这个标准。
+- **`bikini`**（沙滩比基尼，暧昧 ♥60，**全年龄**）：比运动泳装清凉，但仍是全年龄标准：上衣从锁骨下方盖住整个胸口、不显胸型和乳沟，泳裙到膝盖上方、盖住臀部，外搭盖住肩膀的短开衫；只露出一窄条腰、手臂和小腿，布料不透明，没有内衣感和性暗示的姿势。五位内置角色的默认包都带这张图（`sheets/bikini.webp`）。导入包给 `bikini` 提供的图也要符合这个标准。
 - **动作（schema 2）**：动作名就是应用的状态名（大肥鱼原版动画的 15 个状态 + `lifted`）。只有 `idle` 必填；缺的状态按回落链降级并叠加一个表情符号（例如 `eat_fruit` → `eat_rice` → `happy` → `idle`）。
 
 | 动作 | 什么时候播放 | 缺了用 |

diff --git a/docs/compliance-review.md b/docs/compliance-review.md
@@ -319,6 +319,12 @@ system role mentions adult topics: (none)
 
 三位新角色（`src/characters/dafeiyu.json`、`claude.json`、`grok.json`）按同样的六项逐条核对：
 
+## 3e. 全年龄衣柜（10 套，2026-10-31，T-1261）
+
+五位都加了 10 套全年龄服饰：针织围巾套装、休闲卫衣、贝雷帽画家装、偶像演出服、毛绒睡衣、猫耳家居服、浴衣、长旗袍、情侣卫衣、花冠长裙，都是 `rating: 'all'`。设计稿阶段的 10 套成人向服饰（性感女仆、兔女郎、吊带袜等）**没有做**：这五位按清纯的少女风来画，又是 `adult: false`，给看起来年轻的角色画性感服饰不合适。项目负责人同意先只做全年龄的。
+
+款式比设计稿收得更紧：裙子都到膝盖或更长（情侣卫衣的短裙改成及膝百褶裙配不透明连裤袜）。第一版长旗袍是贴身剪裁，侧面开衩到大腿，已经废弃重画，现在是宽松 A 字、立领、不开衩，胸口画成平整的布料。逐帧看了 250 张宫格（五位 × 10 套 × 每套 16 个动作 + 走路）：都是成年比例，没有乳沟、贴身剪裁或高开衩，没有内衣感，姿势也没有性暗示。**结论：通过，全年龄**。
+
 | 条目 | 结论 |
 |---|---|
 | 人设 `personality` ×3 | 通过：都写明“成年角色，设定年龄 25 岁以上”“同人形象，不是官方形象”“只用全年龄的友好语气，不调情、不暧昧”（`test/compliance.test.js`“every species persona states an adult age”）。 |
